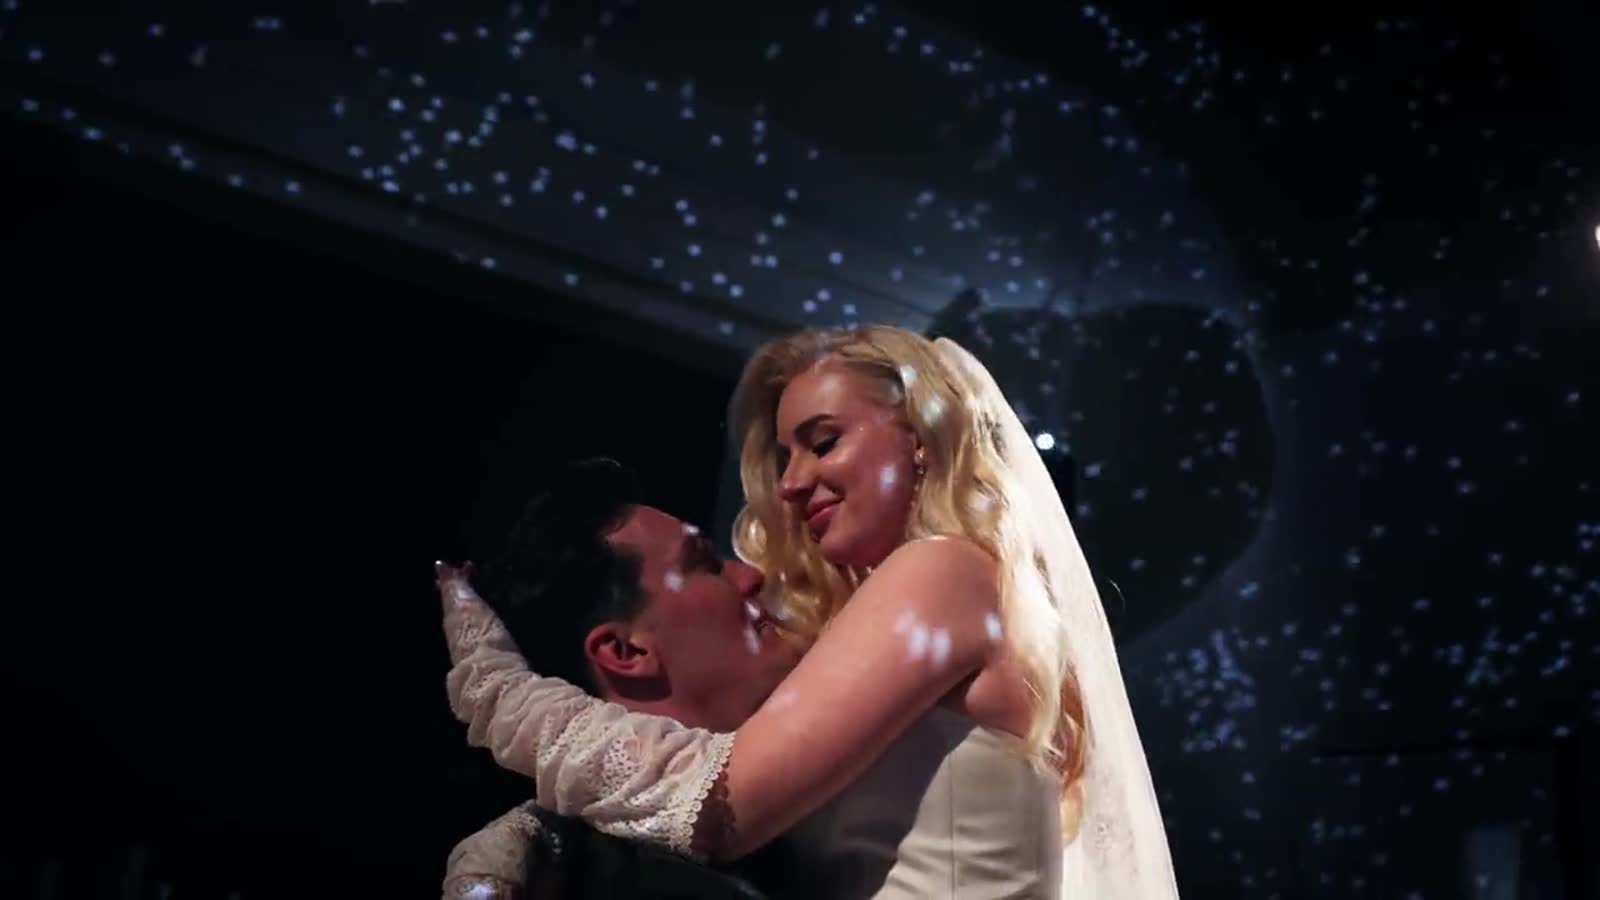
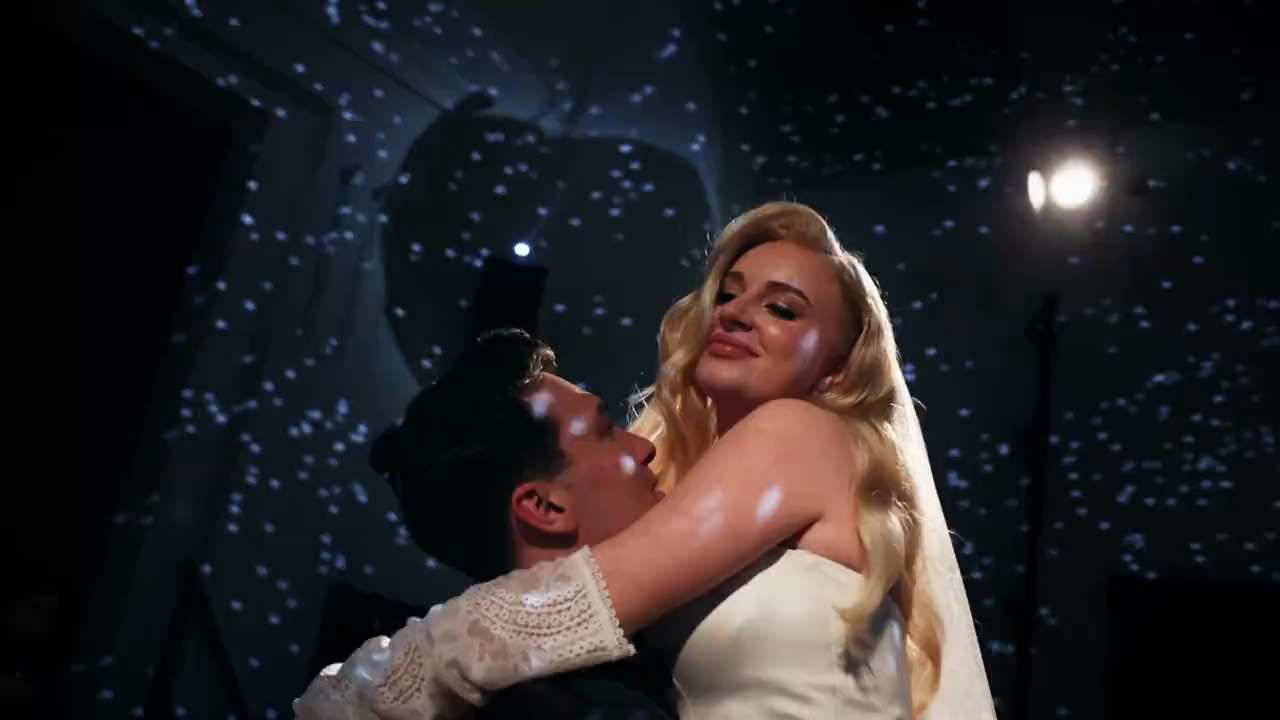
Hero-Video startet sofort statt nach Sekunden
Nevio: "Das video soll direkt losgehen und nicht 5 sekunden spaeter."

ZWEI URSACHEN, BEIDE HAUSGEMACHT

1. Javascript hat das Video aktiv versteckt.
   Im Hero stand: Video auf Deckkraft 0 setzen, auf 'canplay' warten,
   dann ueber 0,6 Sekunden einblenden. Die Kette war damit:

     HTML da -> Javascript laden -> Javascript versteckt das Video
     -> genug Video geladen -> 0,6 Sekunden einblenden

   Jeder Schritt kostet Zeit, und bis zum letzten sah man die dunkle
   Flaeche des Abschnitts. Nichts davon war noetig: <video> mit
   autoplay, muted und playsInline startet von selbst, ganz ohne
   Javascript, und zeigt bis dahin sein Standbild. Die Kette faellt
   ersatzlos weg; nachgemessen steht jetzt keine Deckkraft mehr im
   Element.

2. Das Standbild war gar nicht das erste Videobild.
   Es zeigte eine voellig andere Stelle der Hochzeit. Der Besucher sah
   also erst dieses eine Bild und dann einen Sprung auf eine andere
   Szene - genau das Springen, das Nevio ganz am Anfang aufgefallen
   ist ("zeigt irgendein Bild an, was dort garnicht sein soll").

   Jetzt ist das Standbild mit ffmpeg aus dem ersten Videobild
   geschnitten. Der Uebergang ist dadurch unsichtbar: es sieht aus,
   als sei das Video sofort da und fange dann an zu laufen. Nebenbei
   36 statt 46 KB, weil es nur noch die Videomasse braucht.

GEPRUEFT UND NICHT DIE URSACHE
Die MP4-Datei selbst ist in Ordnung: der moov-Block steht vorne
[…]

diff --git a/components/Hero.jsx b/components/Hero.jsx
@@ -33,16 +33,40 @@ const ease = [0.22, 1, 0.36, 1];
 export default function Hero() {
   const videoRef = useRef(null);
 
+  /* Nevio am 21.09.2026: "Das video soll direkt losgehen und nicht
+     5 sekunden spaeter."
+
+     Die Verzoegerung war hausgemacht. Vorher stand hier: Video auf
+     unsichtbar setzen, auf 'canplay' warten, dann ueber 0,6 Sekunden
+     einblenden. Das hiess in dieser Reihenfolge:
+
+       HTML da -> Javascript laden -> Javascript versteckt das Video
+       -> genug Video geladen -> 0,6 Sekunden einblenden
+
+     Jeder dieser Schritte kostet Zeit, und bis zum letzten sah man die
+     dunkle Flaeche des Abschnitts. Nichts davon war noetig: das
+     <video>-Element startet mit autoplay/muted/playsInline von selbst,
+     ganz ohne Javascript, und zeigt bis dahin sein Standbild.
+
+     Geblieben sind zwei Anstoesse, die beide nichts verzoegern:      */
   useEffect(() => {
     const v = videoRef.current;
     if (!v) return;
     v.muted = true;
-    v.style.opacity = '0';
-    v.style.transition = 'opacity 0.6s ease';
-    const show = () => { v.style.opacity = '1'; };
-    v.addEventListener('canplay', show, { once: true });
-    v.play().catch(() => {});
-    return () => v.removeEventListener('canplay', show);
+
+    const starten = () => { const p = v.play(); if (p) p.catch(() => {}); };
+    starten();
+
+    /* Wer die Seite in einem Hintergrund-Tab oeffnet (Mittelklick,
+       "in neuem Tab oeffnen"), bekommt vom Browser kein Autoplay -
+       versteckte Tabs spielen nichts ab. Ohne das hier bliebe das
+       Video fuer denjenigen fuer immer stehen, auch nachdem er
+       hingewechselt ist. Gemessen genau so aufgetreten.              */
+    const beiSichtbar = () => {
+      if (document.visibilityState === 'visible' && v.paused) starten();
+    };
+    document.addEventListener('visibilitychange', beiSichtbar);
+    return () => document.removeEventListener('visibilitychange', beiSichtbar);
   }, []);
 
   return (
@@ -66,9 +90,16 @@ export default function Hero() {
           playsInline
           preload="auto"
           /* Standbild, bis das Video laeuft. Ohne das sieht man beim
-             Aufbau der Seite eine schwarze Flaeche - der erste Eindruck
-             ist dann die Ladezeit statt das Bild. Die Datei lag
-             ungenutzt im Ordner. */
+             Aufbau der Seite eine dunkle Flaeche - der erste Eindruck
+             waere dann die Ladezeit statt das Bild.
+
+             Es ist das ERSTE BILD DES VIDEOS, mit ffmpeg daraus
+             geschnitten. Vorher lag hier eine andere Stelle aus der
+             Hochzeit: man sah erst diesen einen Moment und dann sprang
+             es auf eine voellig andere Szene. Genau dieses Springen ist
+             Nevio ganz am Anfang aufgefallen ("zeigt irgendein Bild an,
+             was dort garnicht sein soll"). Jetzt ist der Uebergang vom
+             Standbild zum Video unsichtbar.                          */
           poster="/images/hero-poster.jpg"
           style={{
             width: '100%',
